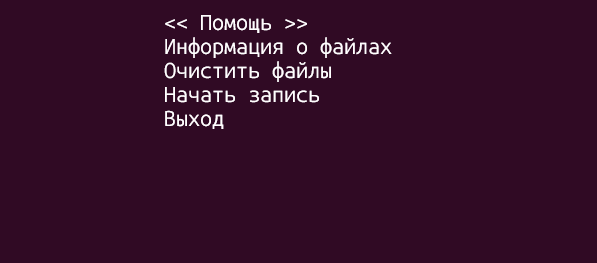
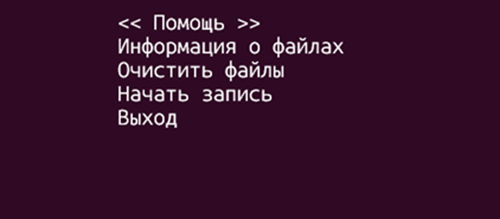
Added NEW screens to report

Changed region(s): [[0.21, 0.0548, 0.69, 0.6027]]

diff --git a/README.md b/README.md
@@ -16,5 +16,11 @@
 В процессе проектирования автором было принято решение реализовать в программах интерактивный интерфейс для удобства пользования. Для этого была применена библиотека ncurses.  
 Ниже приведены примеры работы первой программы (Program-1).  
   
-![Главное меню программы](images/1.png)  
+![Главное меню программы](images/1.png "Главное меню программы") 
+> Главное меню программы  
 ![](images/2.png) 
+![](images/3.png)
+> Меню очистки файлов  
+![](images/4.png)   
+![](images/5.png)  
+> Меню записи файлов
